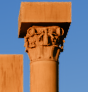
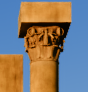
ORN round-4 review fixes: scallop phase, keystone mounting plane, socket contract, cavity spec
1) Bell scallop sign inverted (orn_build.py bell_scallop): cos(16*theta) peaks every 22.5 deg, exactly where a
   leaf sits, so +0.45*cos put the trough UNDER each leaf and left the upper leaf bases seated on air. Now
   -0.45*cos: full radius under each leaf, the 0.064 m dip 11.25 deg away in the gap. Capitals rebuilt; hero
   1:1 crop rel-std 0.6202 -> 0.6570 (round 3 was 0.5721), union of both leaf rows verified in the look-dev.
2/5) Keystone moulded cap 0.34 -> 0.30 m deep so it no longer reaches to y = -0.02; all three variants now
   measure local y_min = 0.0000, i.e. the back plate sits on the archivolt face instead of 2 cm proud.
   Hero rel-std 0.3311 -> 0.3672. Mask nose measured 0.634 / 0.647 / 0.677 m proud by variant.
3) docs/sockets.md ORN section rewritten to the lead's final rosette_ceiling contract (16 band sockets on the
   vertical inner face of the base ring, +Y = -radial; 8 ring-1 coffer-floor sockets +Y = down); ROT_Z_FIX
   workaround dropped.
4) docs/ornament_notes.md now states the exact cavity contract: attribute "cavity", POINT domain, FLOAT_COLOR,
   1.0 = open / 0.0 = enclosed, on LOD0 and LOD1 of the five types, read with an Attribute node; plus the note
   that both it and the AO maps are inert until materials round 5.
6) Rosette depth figure corrected: delivered LOD0 y-extent 0.210 / 0.197 / 0.225 m, not 0.29 m.

Claude-Session: https://claude.ai/code/session_015jPmouB3z4CH9ZykhZN2hQ

diff --git a/scripts/orn_build.py b/scripts/orn_build.py
@@ -249,13 +249,14 @@ def build_capital(typ, variant, coll, bake=True):
     rng = random.Random(7919 * variant + len(typ))
     work = L.work_collection()
     parts = []
-    # Kalathos, scalloped so the slot between two neighbouring leaves bottoms out in a groove (16 dips: 8 under the
-    # lower row's gaps at 22.5 deg, 8 under the upper row's gaps at 0 deg).
+    # Kalathos, scalloped so the slot between two neighbouring leaves bottoms out in a groove. cos(16*th) peaks at
+    # every 22.5 deg, which is exactly where a leaf sits (lower row 0 + k*45, upper row 22.5 + k*45), so the sign must
+    # be MINUS: full radius under each leaf (a firm seat for the union), the dip 11.25 deg away, in the gap.
     sc = P["scallop"]
 
     def bell_scallop(th, t):
         band = math.sin(math.pi * min(max((t - 0.03) / 0.80, 0.0), 1.0)) ** 0.6
-        return 1.0 - sc * band * (0.55 + 0.45 * math.cos(16.0 * th))
+        return 1.0 - sc * band * (0.55 - 0.45 * math.cos(16.0 * th))
 
     bell = L.revolve("bell", L.resample_profile([(r * R, z * H) for r, z in BELL_PROFILE], 44), segments=96,
                      coll=work, scale_fn=bell_scallop)
@@ -756,7 +757,9 @@ def build_keystone(variant, coll, bake=True):
                                 Vector((w * S, y, z * S)), Vector((w * S, 0.02, z * S))]
                                for w, y, z in VOUSSOIR], work, cap_bottom=True, cap_top=True))
     # moulded cap under the frieze: a hard horizontal shadow line at the top of the block
-    parts.append(L.box("ks_cap", (0.66 * S, 0.34, 0.075 * S), work, location=(0, 0.15, 0.335 * S), bevel=0.012))
+    # depth 0.30 (not 0.34): the cap must not reach behind y = 0, or origin_bottom_centre(y_mode="back") re-origins
+    # off the mounting plane and the whole keystone floats 2 cm proud of the archivolt.
+    parts.append(L.box("ks_cap", (0.66 * S, 0.30, 0.075 * S), work, location=(0, 0.15, 0.335 * S), bevel=0.012))
     face = L.sphere("ks_face", 0.235 * S, work, location=(0, KEY_PROUD + 0.06, 0.00), scale=(1.02, 0.80, 1.05))
     parts.append(face)
     parts.append(L.sphere("ks_muzzle", 0.135 * S, work, location=(0, KEY_PROUD + 0.20, -0.075 * S), scale=(1.15, 0.95, 0.82)))

diff --git a/scripts/orn_r4_sheet.py b/scripts/orn_r4_sheet.py
@@ -20,14 +20,17 @@ ROWS = [
     ("capital", "corinthian_capital_1.jpg", "QA-03-15  ORN_capital_rotunda",
      "LOD0 100k -> 64k, LOD1 20k -> 16k tris. Kalathos necked 1.30 R -> 1.155 R at the top, 0.865 R at the waist; "
      "leaves lofted on a bell-hugging spine, tips curl out+down through 90-100 deg; leaf tips 0.29 -> 0.40 m proud "
-     "of the bell; bell scalloped 0.078 R between the leaves. Cavity vertex attribute on LOD0/LOD1."),
+     "of the bell; bell scalloped 0.078 R with the 0.064 m groove BETWEEN the leaves (phase fixed in review). "
+     "Cavity FLOAT_COLOR vertex attribute 'cavity' on LOD0/LOD1, 1 = open."),
     ("rosette", "coffered_ceiling_1.jpg", "QA-03-8 (ornament half)  ORN_rosette_ceiling",
      "LOD0 20k -> 26k tris. Was a lathe with a cos(12t) radius wobble (no undercut anywhere). Now a sunk back disc, "
      "8+8 modelled petals whose tips lift 0.082 m off the disc, a 0.045 m annular groove and a beaded boss. "
-     "Relief 0.14 -> 0.21 m on a 0.60 m rosette (0.35 of the diameter), sized for ARCH's 0.55 m saucer coffers."),
+     "Relief 0.14 -> 0.21 m on a 0.60 m rosette (0.35 of the diameter); delivered mesh depth 0.197-0.225 m, "
+     "inside ARCH's 0.55 m saucer coffers."),
     ("keystone", "keystone_mask_1.jpg", "carried defect  ORN_keystone",
      "LOD0 50k tris (unchanged). New tapered voussoir standing 0.30 m proud of the archivolt face plus a 0.075 m "
-     "moulded cap; mask nose now ~0.66 m proud (was 0.50). Brow overhangs the eye sockets; eye 0.03 -> 0.072 m, "
+     "moulded cap (back plane now exactly y = 0); mask nose 0.63-0.68 m proud (was 0.50). Brow overhangs the eyes; "
+     "eye 0.03 -> 0.072 m, "
      "mouth 0.09 -> 0.115 m, nostrils added; mane 14 thin -> 10 bold leaves. 3 variants (was 2)."),
 ]
 HERO_ZOOM = 6

diff --git a/docs/ornament_notes.md b/docs/ornament_notes.md
@@ -367,7 +367,11 @@ That is the whole defect — it was never a shading or a tri-budget problem.
 Rebuilt:
 - **New kalathos**: 1.00 R at the astragal, necks to **0.865 R** at the waist, flares to **1.155 R** under the
   volutes (was 1.30 R). The bell is also **scalloped** (`scallop = 0.078 R`, 16 dips, `revolve(scale_fn=...)`) so
-  the slot between two neighbouring leaves bottoms out in a groove instead of on a smooth cylinder.
+  the slot between two neighbouring leaves bottoms out in a 0.064 m groove instead of on a smooth cylinder.
+  *Review fix (2026-09-08):* the phase was inverted on first delivery - `cos(16*theta)` peaks every 22.5 deg, which is
+  exactly where a leaf sits (lower row 0 + k*45, upper row 22.5 + k*45), so `+0.45*cos` put the trough UNDER each leaf
+  and the ridge in the gap, and left the upper leaf bases seated on air. Now `-0.45*cos`: full radius under each leaf,
+  the dip 11.25 deg away. Capital hero rel-std went 0.6202 -> **0.6570** on the fix alone.
 - **Leaves on an explicit spine** (`leaf_spine()` + new `spine=` argument on `orn_lib.acanthus_leaf`): the body
   follows the bell surface with a growing outward offset (`proud` 0.14 R lower / 0.13 R upper), then the last
   26-28 % of the length is a circular arc of **100 deg (lower) / 90 deg (upper)** that carries the tip outward and
@@ -398,9 +402,9 @@ Measured on the hero 1:1 crop (Cycles 48 spp, rig r09, same session for before a
 | box | before | after | reference (ref 169) |
 |---|---|---|---|
 | full crop (bbox + 22 px), rel std | 0.2650 | **0.2857** | — |
-| capital only, 44x34 px, rel std | 0.5721 | **0.6202** | 0.428-0.459 (photo tone curve) |
+| capital only, 44x34 px, rel std | 0.5721 | **0.6570** | 0.428-0.459 (photo tone curve) |
 | capital only, alternations >= 0.05 | 3 | **3** | 6-7 |
-| keystone only, 22x24 px, rel std | 0.2571 | **0.3311** | — |
+| keystone only, 22x24 px, rel std | 0.2571 | **0.3672** | — |
 
 **Honest limit.** The tier count did not move: 3 alternations before and after. What did move is the depth and the
 darkness of the accents inside the leaf zone (see the x6 crops on the sheet — the round-3 capital is a pale mush
@@ -408,14 +412,31 @@ with faint scratches, this one has black slots). The remaining distance to the p
 names "shading, recess dirt" alongside the geometry, and the reference's dark accents are mostly dirt in the leaf
 recesses, not shadow. The geometry now has the recesses to hold it — see the hand-off below.
 
-### Cavity attribute for materials (new)
-`orn_lib.vertex_cavity()` bakes a per-vertex AO into a **FLOAT_COLOR attribute named `cavity`** (1.0 = open,
-0.0 = enclosed) on the POINT domain of **LOD0 and LOD1** of every capital, rosette and keystone; the objects carry
-`cavity_attr = "cavity"`. This matters because **LOD0 is the render LOD and has no UVs**, so a vertex attribute is
-the only channel a shader has for darkening ornament recesses on the geometry that is actually rendered. Read it
-with an Attribute node named `cavity` (Color or Fac). Measured mean on the rotunda capital 0.45, min 0.00; rosette
-0.78; keystone 0.79. `finalize_asset(..., ao=True)` also now bakes an **AO map** for LOD1 next to the normal map,
-so `ao_map` is no longer empty for these three types (`assets/textures/orn/ORN_*_ao.png`).
+### Cavity attribute for materials (new) — what to read
+
+`orn_lib.vertex_cavity()` bakes a per-vertex ambient occlusion into the mesh. **Exact contract for the materials
+shader:**
+
+| | |
+|---|---|
+| attribute name | `cavity` |
+| domain | `POINT` (per vertex) |
+| type | `FLOAT_COLOR` (greyscale: R = G = B = the value, A = 1) |
+| range / sense | **1.0 = fully open surface, 0.0 = fully enclosed recess** — so multiply albedo by it (or by `mix(dirt, 1, cavity)`), never by `1 - cavity` |
+| carried by | **LOD0 and LOD1** of `capital_rotunda`, `capital_inner`, `capital_colonnade`, `rosette_ceiling`, `keystone`. LOD2 has none. |
+| read it with | a Shader `Attribute` node, Type = Geometry, Name = `cavity`; use the **Color** output (or Fac, same value) |
+| marker property | each object also carries `cavity_attr = "cavity"` so a script can detect it |
+| measured means | rotunda capital 0.45 (min 0.00), colonnade 0.46, rosette 0.78, keystone 0.79 |
+| sampling | 10 cosine-distributed rays per vertex over a radius of 6 % of the object diagonal, deterministic (same value on every rebuild) |
+
+This matters because **LOD0 is the render LOD and has no UVs**, so a vertex attribute is the only channel a shader has
+for darkening ornament recesses on the geometry that is actually rendered. `finalize_asset(..., ao=True)` also bakes an
+**AO map** for LOD1 next to the normal map, so `ao_map` is no longer empty for those five types
+(`assets/textures/orn/ORN_*_ao.png`, tangent-space normals in `ORN_*_nrm.png`).
+
+**Both are inert today** (noted in the round-4 code review): `mat_build.py` creates no `ORN_NORMAL` / `ORN_AO` image
+nodes, so `build_master.orn_material_for()` returns `None` and no shader reads a `cavity` Attribute node. The data is
+delivered and waiting for materials round 5.
 
 ### QA-03-8 (ornament half) — coffer / rib rosettes
 The round-3 rosette was a lathe with a `cos(12*theta)` radius wobble: a smooth 12-point star with **no undercut
@@ -424,8 +445,9 @@ raised rim, a ring of 8 modelled petals (`rosette_petal()`, flat for 66 % of the
 a second ring of 8 rotated half a pitch, a 0.045 m annular groove and a beaded central boss.
 - **Relief 0.14 m -> 0.21 m on a 0.60 m rosette (0.35 of the diameter)**, petal tips 0.082 m off the disc floor,
   back face at y = 0. Raised from 0.155 m after ARCH deepened the coffer interiors to 0.55 m (saucer) / 0.38 m
-  (barrel): a 0.155 m boss disappears at the bottom of a 0.55 m box. Total depth of the LOD0 mesh 0.29 m including
-  the noise displacement, so it sits **inside** a 0.55 m box with 0.26 m to spare and never breaks the rib face.
+  (barrel): a 0.155 m boss disappears at the bottom of a 0.55 m box. Delivered LOD0 y-extent measured from the meshes:
+  **v1 0.210 m, v2 0.197 m, v3 0.225 m** (the noise displacement averages out; an earlier note said 0.29 m - wrong).
+  So it sits **inside** a 0.55 m saucer coffer with >= 0.32 m to spare and never breaks the rib face.
 - 3 variants (was 2): 8+8 petals at 0.60 m / 10+10 at 0.56 m / 6+6 at 0.62 m. LOD0 20k -> **26k** tris, LOD1 5k.
 - Depth provenance: ref 083 and `ornament_crops/coffered_ceiling_1-3` are all straight-up shots in which the rib
   rosettes are 0.45-0.60 m across and read as bosses roughly a quarter to a third of their diameter proud. There
@@ -445,11 +467,14 @@ wedge block breaking forward out of the archivolt roll with a moulded cap under 
 convex blobs and its eye/mouth dents (0.03 / 0.09 m) were wiped by `smooth=2` on a 0.006 m remesh.
 - New **tapered voussoir**, 0.43 m wide at the springing to 0.60 m under the cap, standing **0.30 m proud** of the
   archivolt face, plus a 0.075 m moulded cap.
-- Mask nose now **~0.66 m proud** of the archivolt (was 0.50 m). Brow ridge moved forward and up so it **overhangs**
+- Mask nose now **0.634 / 0.647 / 0.677 m proud** of the archivolt by variant (was 0.50 m). Brow ridge moved forward and up so it **overhangs**
   the eye sockets. Dents: eye 0.03 -> **0.072 m**, mouth 0.09 -> **0.115 m**, nostrils added at 0.035 m.
 - Mane 14 thin leaves -> **10 bold** ones (0.30 m long, 0.036 m thick, `mid_dip` 0.022) standing clear of the face.
 - `union_blob` voxel 0.006 -> 0.005, smoothing 2 passes at 0.50 -> 1 at 0.25.
-- 3 variants (was 2), sized +/-4 %. LOD0 50k tris unchanged. Hero-crop rel std **0.2571 -> 0.3311**.
+- *Review fix (2026-09-08):* the moulded cap was 0.34 m deep at y = 0.15, i.e. it reached to y = -0.02, so
+  `origin_bottom_centre(y_mode="back")` re-originned off the mounting plane and the whole keystone stood 2 cm proud
+  of the archivolt. Cap depth is now 0.30 m and all three variants measure local y_min = 0.0000.
+- 3 variants (was 2), sized +/-4 %. LOD0 50k tris unchanged. Hero-crop rel std **0.2571 -> 0.3672**.
 
 ### Tools added this round (ORN-owned)
 - `scripts/orn_r4_render.py` — the socket-frame look-dev + hero 1:1 crop rig described above.

diff --git a/docs/sockets.md b/docs/sockets.md
@@ -64,18 +64,16 @@ and finials. State which in docs/arch_notes.md.
 LOD rule: the lead instances LOD1 by default in the viewport and switches to LOD0 for Cycles finals via
 `common.set_lod_visibility`. LOD0 target < 150k tris per capital, < 300k per maiden; LOD1 < 20k; LOD2 < 2k.
 
-**ORN request 2026-09-08 (round 4, QA-03-8) — `rosette_ceiling` socket orientation is wrong for all 24.**
-Measured in `assets/architecture.blend` after the 28f0caf merge: every `SOCKET_rosette_ceiling_*` has
-`+Y` exactly radially OUTWARD (`dot(+Y, radial) = 1.000` for all 24) and `+Z` = world up. The contract says
-`+Y` is the direction the ornament projects from its back face, so as delivered every rosette projects
-*into* the masonry and none is visible from inside. Verified: cam04 Eevee off `master.blend` shows no rosette
-at all (`renders/previews/qa/roundorn4_04_rotunda_ceiling.png`).
-- **16 rim-band sockets** (r 13.73 / 14.85, z 24.32 / 23.41): these are bosses on the rib's ROOM face, so
-  `+Y` must be **-radial** (a 180° turn about the socket's Z).
-- **8 ring-1 sockets** (r 5.20, z 28.91): these sit on a saucer-coffer FLOOR, so `+Y` must be the coffer
-  floor's normal, i.e. pointing DOWN into the room (roughly `-Z`, tilted outward with the dome), not
-  horizontal. A `Rx(-90°)` on the current frame is enough at this dome slope.
-Proof render with both corrections applied to a local master: `renders/previews/ornament/orn4_cam04_rosette_fix2.png`
-(the 8 ring-1 rosettes appear inside their coffers; compare `roundorn4_04_rotunda_ceiling.png`).
-Fix in ARCH's socket build, or as a `ROT_Z_FIX`-style entry in `scripts/build_master.py` — ORN owns neither file.
-The asset itself is correct per contract: back face at y = 0, projecting +Y, 0.21 m of relief.
+**`rosette_ceiling` orientation — final contract (lead decision 2026-09-08, ARCH rebuilding on branch architecture).**
+The 24 sockets are two groups and the generic "for the ceiling, +Y = radially outward" line above does NOT apply to
+either of them:
+- **16 band sockets**: on the VERTICAL INNER FACE of the base ring above the inner arches, **+Y = -radial** (facing
+  the room), +Z = world up.
+- **8 ring-1 sockets**: on the FLOOR of a saucer coffer, **+Y = down (-Z)**; the socket's own +Z then lies in the
+  ceiling plane.
+Background: as delivered before this change all 24 had +Y exactly radially outward (`dot(+Y, radial) = 1.000`), so
+every rosette projected into the masonry and none appeared at cam04
+(`renders/previews/qa/roundorn4_04_rotunda_ceiling.png`; corrected proof
+`renders/previews/ornament/orn4_cam04_rosette_fix2.png`).
+The ORN asset is unchanged and correct under either frame: back face at y = 0, projecting +Y, 0.20-0.22 m of relief
+on a 0.55-0.62 m rosette, which fits inside the 0.55 m saucer coffer and stands clear on the band face.
